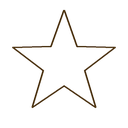
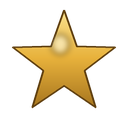
Update DGE

Changed region(s): [[0.0938, 0.0938, 0.9062, 0.8438]]

diff --git a/dge/index.html b/dge/index.html
@@ -22,7 +22,7 @@
 
 
 <!-- DGE Stylesheet -->
-<link rel="stylesheet" href="css/main.css?v=4.14.0">
+<link rel="stylesheet" href="css/main.css?v=4.15.0">
 </head>
 <body>
 
@@ -132,7 +132,7 @@
     <a href="mailto:sanatanavidyagurukulam@gmail.com" id="configEmailLink" style="display:inline-block; margin-top:6px;">sanatanavidyagurukulam@gmail.com</a>
   </div>
 
-  <div class="app-footer" id="appFooter">v4.14 (Modular)</div>
+  <div class="app-footer" id="appFooter">v4.15 (Modular)</div>
 </div>
 
 <!-- Search Navigator Floating Pill -->
@@ -443,27 +443,27 @@
 </div>
 
 <!-- DGE MODULAR SCRIPTS PIPELINE (Explicit tags ensure perfect load sequence & avoid DOM race conditions) -->
-<!-- ?v=4.14.0 cache-busts these files. BUMP THIS VALUE on every deploy that -->
+<!-- ?v=4.15.0 cache-busts these files. BUMP THIS VALUE on every deploy that -->
 <!-- changes any js/*.js file — otherwise phones/GitHub Pages CDN can keep -->
 <!-- serving an old cached copy of a script indefinitely. -->
-<script src="js/config.js?v=4.14.0"></script>
-<script src="js/state.js?v=4.14.0"></script>
-<script src="js/dev.js?v=4.14.0"></script>
-<script src="js/utils.js?v=4.14.0"></script>
-<script src="js/modals.js?v=4.14.0"></script>
-<script src="js/transliteration.js?v=4.14.0"></script>
-<script src="js/audio.js?v=4.14.0"></script>
-<script src="js/filter.js?v=4.14.0"></script>
-<script src="js/search.js?v=4.14.0"></script>
-<script src="js/markers.js?v=4.14.0"></script>
-<script src="js/notes.js?v=4.14.0"></script>
-<script src="js/snippets.js?v=4.14.0"></script>
-<script src="js/actions.js?v=4.14.0"></script>
-<script src="js/voice.js?v=4.14.0"></script>
-<script src="js/screenshot.js?v=4.14.0"></script>
-<script src="js/ai.js?v=4.14.0"></script>
-<script src="js/render.js?v=4.14.0"></script>
-<script src="js/core.js?v=4.14.0"></script>
+<script src="js/config.js?v=4.15.0"></script>
+<script src="js/state.js?v=4.15.0"></script>
+<script src="js/dev.js?v=4.15.0"></script>
+<script src="js/utils.js?v=4.15.0"></script>
+<script src="js/modals.js?v=4.15.0"></script>
+<script src="js/transliteration.js?v=4.15.0"></script>
+<script src="js/audio.js?v=4.15.0"></script>
+<script src="js/filter.js?v=4.15.0"></script>
+<script src="js/search.js?v=4.15.0"></script>
+<script src="js/markers.js?v=4.15.0"></script>
+<script src="js/notes.js?v=4.15.0"></script>
+<script src="js/snippets.js?v=4.15.0"></script>
+<script src="js/actions.js?v=4.15.0"></script>
+<script src="js/voice.js?v=4.15.0"></script>
+<script src="js/screenshot.js?v=4.15.0"></script>
+<script src="js/ai.js?v=4.15.0"></script>
+<script src="js/render.js?v=4.15.0"></script>
+<script src="js/core.js?v=4.15.0"></script>
 
 <script>
   if (typeof console.log === "function") {

diff --git a/dge/css/main.css b/dge/css/main.css
@@ -164,7 +164,7 @@ body.dark-mode .search-match { background-color: #fbc02d; color: #000; }
    place; Status opens the shared floating picker (#statusPickerMenu). */
 .chip-toggle { width: 27px; height: 27px; border-radius: 50%; background: var(--card-bg); border: 1.5px solid var(--card-border); color: var(--muted-text); font-size: 13px; display: flex; align-items: center; justify-content: center; cursor: pointer; flex-shrink: 0; transition: all var(--t-fast) var(--ease); padding: 0; }
 .chip-toggle:active { transform: scale(0.88); }
-.chip-toggle.active-fav { background: var(--accent-gold); border-color: var(--accent-gold); color: #fff; box-shadow: 0 2px 6px rgba(0,0,0,0.15); }
+.chip-toggle.active-fav { background: #2b2118; border-color: var(--accent-gold); color: #fff; box-shadow: 0 2px 6px rgba(0,0,0,0.3); }
 .chip-toggle.active-doubt { background: transparent; border-color: var(--accent-red); color: var(--accent-red); box-shadow: inset 0 0 0 1px var(--accent-red); }
 .chip-toggle.active-status-pending { background: var(--muted-text); border-color: var(--muted-text); color: #fff; box-shadow: 0 2px 6px rgba(0,0,0,0.12); }
 .chip-toggle.active-status-practice { background: #e8791a; border-color: #e8791a; color: #fff; box-shadow: 0 2px 6px rgba(0,0,0,0.15); }
